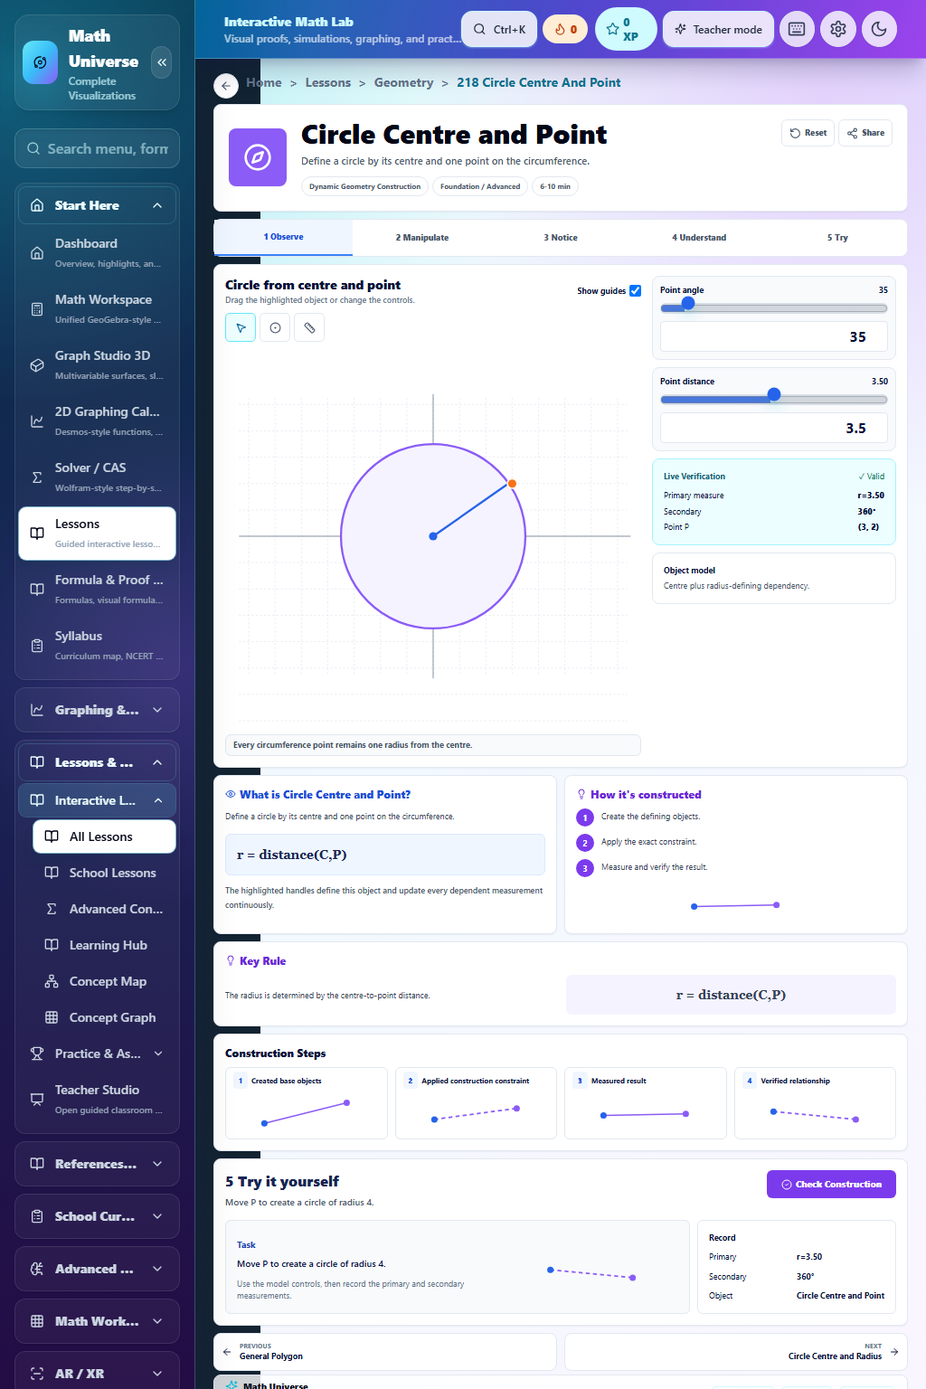
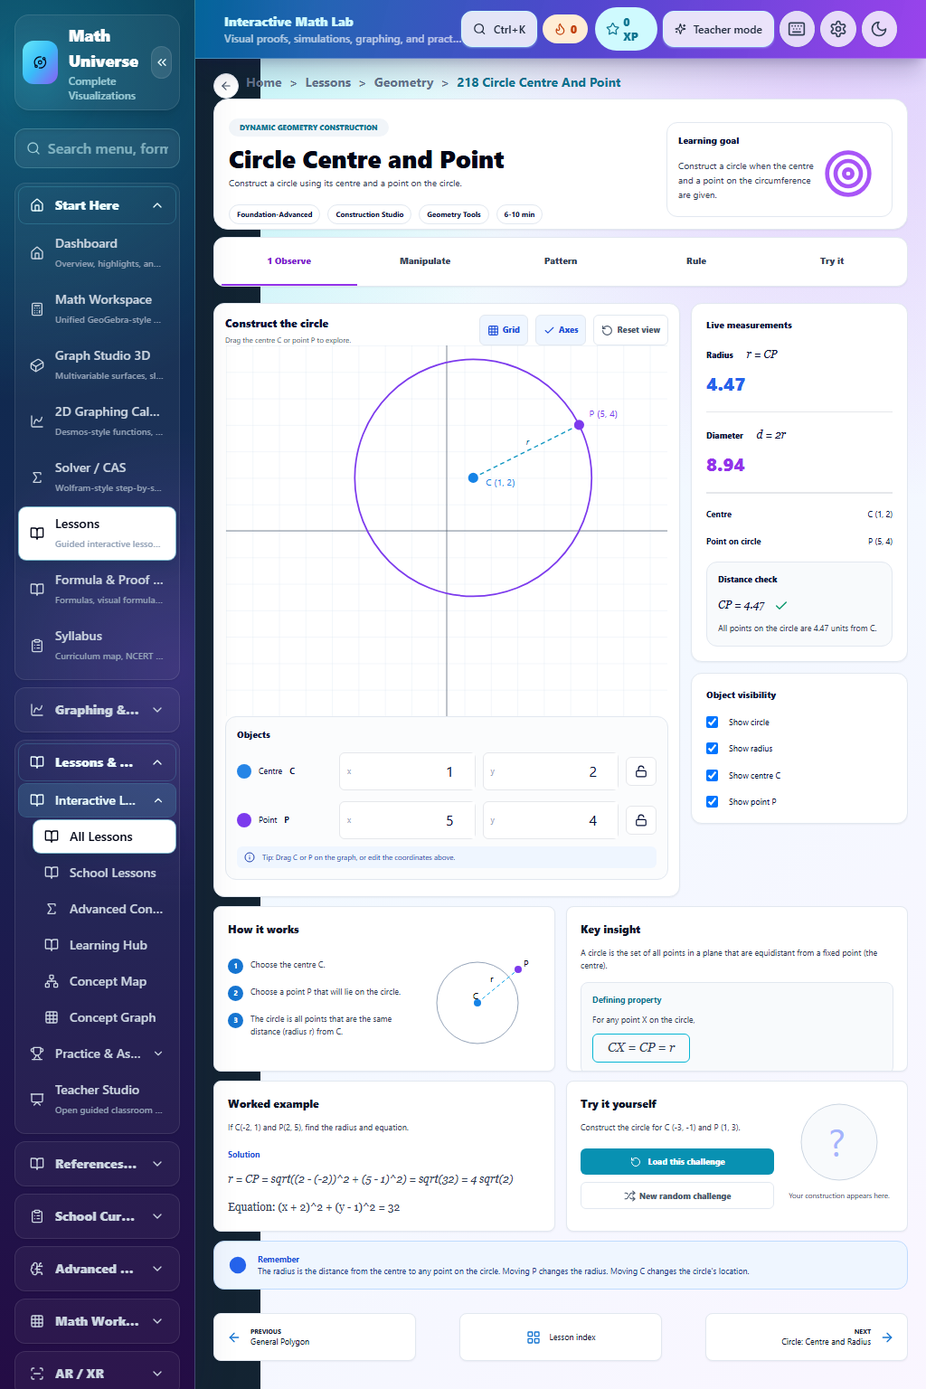
Rebuild circle centre point lesson to match target UI

diff --git a/src/modules/lessons/adapters/CircleCentrePointTargetLesson218.tsx b/src/modules/lessons/adapters/CircleCentrePointTargetLesson218.tsx
@@ -1,0 +1,82 @@
+import {
+  ArrowLeft,
+  ArrowRight,
+  Check,
+  Grid3X3,
+  Info,
+  LayoutGrid,
+  Lock,
+  RotateCcw,
+  Shuffle,
+  Target,
+  Unlock,
+} from "lucide-react";
+import {
+  useEffect,
+  useMemo,
+  useState,
+  type PointerEvent as ReactPointerEvent,
+} from "react";
+import type { LessonAdapterProps } from "../types";
+
+type Point = { x: number; y: number };
+type Drag = "centre" | "point" | null;
+type Visibility = { circle: boolean; radius: boolean; centre: boolean; point: boolean; grid: boolean; axes: boolean };
+const initialCentre = { x: 1, y: 2 };
+const initialPoint = { x: 5, y: 4 };
+const initialVisibility: Visibility = { circle: true, radius: true, centre: true, point: true, grid: true, axes: true };
+
+export default function CircleCentrePointTargetLesson218({ resetToken, onInteraction }: LessonAdapterProps) {
+  const [centre, setCentre] = useState<Point>(initialCentre);
+  const [point, setPoint] = useState<Point>(initialPoint);
+  const [locked, setLocked] = useState({ centre: false, point: false });
+  const [visibility, setVisibility] = useState(initialVisibility);
+  const [drag, setDrag] = useState<Drag>(null);
+  const [challenge, setChallenge] = useState<{ centre: Point; point: Point; loaded: boolean }>({ centre: { x: -3, y: -1 }, point: { x: 1, y: 3 }, loaded: false });
+  const radius = useMemo(() => distance(centre, point), [centre, point]);
+  const reset = () => { setCentre(initialCentre); setPoint(initialPoint); setLocked({centre:false,point:false}); setVisibility(initialVisibility); setChallenge({centre:{x:-3,y:-1},point:{x:1,y:3},loaded:false}); onInteraction(); };
+  useEffect(() => { setCentre(initialCentre); setPoint(initialPoint); setLocked({centre:false,point:false}); setVisibility(initialVisibility); setChallenge({centre:{x:-3,y:-1},point:{x:1,y:3},loaded:false}); }, [resetToken]);
+  const toggle = (key:keyof Visibility) => { setVisibility(value=>({...value,[key]:!value[key]})); onInteraction(); };
+  const update = (kind:"centre"|"point", next:Point) => { if(locked[kind])return; (kind==="centre"?setCentre:setPoint)({x:clamp(next.x,-6,6),y:clamp(next.y,-5,6)}); onInteraction(); };
+
+  return <section
+    className="space-y-3"
+    style={{marginTop:-12}}
+    data-testid="dynamic-geometry-mockup-0275"
+    data-dedicated-lesson="218"
+    data-object-model="circle-centre-through-point"
+    data-direct-interaction="true"
+    aria-label="Circle Centre and Point dedicated interactive geometry model"
+  >
+    <span role="status" className="sr-only">Correct circle dependency.</span><span className="sr-only">Live Verification. Check Construction.</span>
+    <header className="h-[145px] rounded-2xl border border-slate-200 bg-white p-4 shadow-sm">
+      <div className="grid items-center gap-5 md:grid-cols-[1fr_250px]"><div><p className="inline-block rounded-full bg-slate-100 px-3 py-1 text-[8px] font-black uppercase text-cyan-700">Dynamic Geometry Construction</p><h1 className="mt-2 text-[27px] font-black leading-8 text-slate-950">Circle Centre and Point</h1><p className="mt-1 text-[10px] text-slate-700">Construct a circle using its centre and a point on the circle.</p><div className="mt-4 flex flex-wrap gap-2 text-[8px] font-bold"><span className="target-geometry-chip">Foundation-Advanced</span><span className="target-geometry-chip">Construction Studio</span><span className="target-geometry-chip">Geometry Tools</span><span className="target-geometry-chip">6-10 min</span></div></div><div className="relative min-h-[105px] rounded-xl border border-slate-200 p-3 pr-20"><h2 className="text-[10px] font-black">Learning goal</h2><p className="mt-3 text-[10px] leading-4 text-slate-700">Construct a circle when the centre and a point on the circumference are given.</p><Target className="absolute right-5 top-7 h-14 w-14 text-purple-500"/></div></div>
+    </header>
+    <nav className="grid grid-cols-5 overflow-hidden rounded-xl border border-slate-200 bg-white px-2 shadow-sm" style={{marginTop:8}}>{['1 Observe','Manipulate','Pattern','Rule','Try it'].map((label,index)=><button type="button" key={label} className={`h-[53px] border-b-2 text-[10px] font-black ${index===0?'border-purple-600 text-purple-700':'border-transparent text-slate-700'}`} onClick={()=>{document.getElementById(index===4?'circle-challenge':`circle-section-${index}`)?.scrollIntoView({behavior:'smooth',block:'center'});onInteraction()}}>{label}</button>)}</nav>
+
+    <section id="circle-section-0" className="grid min-h-[657px] gap-3 md:grid-cols-[minmax(0,2.15fr)_minmax(205px,1fr)]" style={{marginTop:18}}>
+      <div className="rounded-xl border border-slate-200 bg-white p-3 shadow-sm"><div className="flex justify-between gap-3"><div><h2 className="text-[12px] font-black">Construct the circle</h2><p className="mt-1 text-[8px] text-slate-600">Drag the centre C or point P to explore.</p></div><div className="flex gap-2"><ToggleButton checked={visibility.grid} label="Grid" icon={<Grid3X3/>} onClick={()=>toggle('grid')}/><ToggleButton checked={visibility.axes} label="Axes" icon={<Check/>} onClick={()=>toggle('axes')}/><button type="button" className="target-geometry-action" onClick={reset}><RotateCcw/>Reset view</button></div></div>
+        <CircleCanvas centre={centre} point={point} radius={radius} visibility={visibility} locked={locked} drag={drag} onDrag={setDrag} onUpdate={update}/>
+        <div className="rounded-xl border border-slate-200 bg-slate-50/60 p-3"><h3 className="text-[10px] font-black">Objects</h3><ObjectRow kind="centre" name="Centre" symbol="C" color="#2685e6" point={centre} locked={locked.centre} onLock={()=>{setLocked(value=>({...value,centre:!value.centre}));onInteraction()}} onUpdate={value=>update('centre',value)}/><ObjectRow kind="point" name="Point" symbol="P" color="#7c3aed" point={point} locked={locked.point} onLock={()=>{setLocked(value=>({...value,point:!value.point}));onInteraction()}} onUpdate={value=>update('point',value)}/><p className="mt-2 flex items-center gap-2 rounded-md bg-blue-50 px-2 py-1.5 text-[8px] text-blue-800"><Info className="h-3 w-3"/>Tip: Drag C or P on the graph, or edit the coordinates above.</p></div>
+      </div>
+      <aside className="space-y-3"><section className="rounded-xl border border-slate-200 bg-white p-4 shadow-sm"><h2 className="text-[10px] font-black">Live measurements</h2><Measure label="Radius" formula="r = CP" value={radius.toFixed(2)} color="text-blue-600"/><Measure label="Diameter" formula="d = 2r" value={(2*radius).toFixed(2)} color="text-purple-600"/><hr/><Property label="Centre" value={`C (${format(centre.x)}, ${format(centre.y)})`}/><Property label="Point on circle" value={`P (${format(point.x)}, ${format(point.y)})`}/><div className="mt-4 rounded-xl border border-slate-200 bg-slate-50 p-3 text-[9px]"><h3 className="font-black">Distance check</h3><p className="mt-3 font-serif text-[12px] italic">CP = {radius.toFixed(2)} <Check className="ml-2 inline h-4 w-4 text-emerald-600"/></p><p className="mt-2 leading-4 text-slate-700">All points on the circle are {radius.toFixed(2)} units from C.</p></div></section><section className="rounded-xl border border-slate-200 bg-white p-4 shadow-sm"><h2 className="text-[10px] font-black">Object visibility</h2><Visibility label="Show circle" checked={visibility.circle} mark={<span className="h-0 w-9 border-t-2 border-purple-600"/>} onChange={()=>toggle('circle')}/><Visibility label="Show radius" checked={visibility.radius} mark={<span className="h-0 w-9 border-t-2 border-dashed border-cyan-600"/>} onChange={()=>toggle('radius')}/><Visibility label="Show centre C" checked={visibility.centre} mark={<span className="h-2 w-2 rounded-full bg-blue-600"/>} onChange={()=>toggle('centre')}/><Visibility label="Show point P" checked={visibility.point} mark={<span className="h-2 w-2 rounded-full bg-purple-600"/>} onChange={()=>toggle('point')}/></section></aside>
+    </section>
+
+    <section className="grid gap-3 md:grid-cols-2" style={{marginTop:10}}><article id="circle-section-1" className="target-circle-card"><h2>How it works</h2><div className="grid grid-cols-[1fr_130px] gap-2"><div>{['Choose the centre C.','Choose a point P that will lie on the circle.','The circle is all points that are the same distance (radius r) from C.'].map((text,index)=><p key={text} className="target-circle-step"><b>{index+1}</b>{text}</p>)}</div><MiniCircle/></div></article><article id="circle-section-3" className="target-circle-card"><h2>Key insight</h2><p>A circle is the set of all points in a plane that are equidistant from a fixed point (the centre).</p><div className="mt-3 rounded-lg border border-slate-200 bg-slate-50 p-3"><b className="text-cyan-700">Defining property</b><p className="mt-2">For any point X on the circle,</p><p className="mt-2 w-fit rounded-md border border-cyan-500 px-4 py-1 font-serif text-[14px] italic">CX = CP = r</p></div></article></section>
+    <section className="grid gap-3 md:grid-cols-2" style={{marginTop:10}}><article id="circle-section-2" className="target-circle-card" style={{height:167}}><h2>Worked example</h2><p>If C(-2, 1) and P(2, 5), find the radius and equation.</p><b className="mt-4 block text-blue-700">Solution</b><p className="mt-3 font-serif text-[12px] italic">r = CP = sqrt((2 - (-2))^2 + (5 - 1)^2) = sqrt(32) = 4 sqrt(2)</p><p className="mt-3 font-serif text-[12px]">Equation: (x + 2)^2 + (y - 1)^2 = 32</p></article><article id="circle-challenge" className="target-circle-card" style={{height:167}}><div className="grid grid-cols-[1fr_120px] gap-3"><div><h2>Try it yourself</h2><p>Construct the circle for C ({format(challenge.centre.x)}, {format(challenge.centre.y)}) and P ({format(challenge.point.x)}, {format(challenge.point.y)}).</p><button type="button" className="mt-4 flex w-full items-center justify-center gap-2 rounded-md bg-cyan-600 py-2 text-[9px] font-black text-white" onClick={()=>{setCentre(challenge.centre);setPoint(challenge.point);setChallenge(value=>({...value,loaded:true}));onInteraction()}}><RotateCcw className="h-3 w-3"/>Load this challenge</button><button type="button" className="target-geometry-action mt-2 w-full justify-center" onClick={()=>{const seed=Math.round((challenge.centre.x+challenge.point.y+9)%5);setChallenge({centre:{x:-4+seed,y:-2+(seed%3)},point:{x:2+(seed%3),y:2+seed},loaded:false});onInteraction()}}><Shuffle/>New random challenge</button></div><ChallengePreview centre={challenge.centre} point={challenge.point} loaded={challenge.loaded}/></div></article></section>
+    <div className="flex h-[54px] items-center gap-3 rounded-xl border border-blue-200 bg-blue-50 px-4 py-3 text-[9px] text-blue-900" style={{marginTop:10}}><Info className="h-5 w-5 shrink-0 fill-blue-600 text-blue-600"/><p><b className="block text-blue-700">Remember</b>The radius is the distance from the centre to any point on the circle. Moving P changes the radius. Moving C changes the circle's location.</p></div>
+    <nav className="grid grid-cols-3 gap-12" style={{marginTop:26}} aria-label="Adjacent lessons"><a className="target-circle-nav" href="/lessons/geometry/217-general-polygon"><ArrowLeft/><span><b>Previous</b>General Polygon</span></a><a className="target-circle-nav justify-center" href="/lessons"><LayoutGrid/><span>Lesson index</span></a><a className="target-circle-nav justify-end text-right" href="/lessons/geometry/219-circle-centre-and-radius"><span><b>Next</b>Circle: Centre and Radius</span><ArrowRight/></a></nav>
+  </section>;
+}
+
+function CircleCanvas({centre,point,radius,visibility,locked,drag,onDrag,onUpdate}:{centre:Point;point:Point;radius:number;visibility:Visibility;locked:{centre:boolean;point:boolean};drag:Drag;onDrag:(drag:Drag)=>void;onUpdate:(kind:"centre"|"point",point:Point)=>void}){const domain=(event:ReactPointerEvent<SVGSVGElement>)=>{const box=event.currentTarget.getBoundingClientRect();return{x:-7+((event.clientX-box.left)/box.width)*14,y:7-((event.clientY-box.top)/box.height)*14}};const screen=(p:Point)=>({x:350+p.x*42,y:294-p.y*42});const c=screen(centre),p=screen(point);return <svg role="img" aria-label="Interactive circle with draggable centre C and circumference point P" className="h-[410px] w-full touch-none" viewBox="0 0 700 588" onPointerMove={event=>{if(drag)onUpdate(drag,domain(event))}} onPointerUp={()=>onDrag(null)} onPointerCancel={()=>onDrag(null)}><defs><pattern id="circle-point-grid" width="42" height="42" patternUnits="userSpaceOnUse"><path d="M42 0H0V42" fill="none" stroke="#dbe7f2"/></pattern></defs>{visibility.grid&&<rect width="700" height="588" fill="url(#circle-point-grid)"/>}{visibility.axes&&<><line x1="0" y1="294" x2="700" y2="294" stroke="#475569"/><line x1="350" y1="0" x2="350" y2="588" stroke="#475569"/></>}{visibility.circle&&<circle data-testid="centre-point-construction-circle" data-radius={radius.toFixed(4)} cx={c.x} cy={c.y} r={radius*42} fill="none" stroke="#7c3aed" strokeWidth="2.5"/>}{visibility.radius&&<><line x1={c.x} y1={c.y} x2={p.x} y2={p.y} stroke="#1398c3" strokeWidth="2" strokeDasharray="7 5"/><text x={(c.x+p.x)/2} y={(c.y+p.y)/2-10} fill="#0369a1" fontSize="13" fontStyle="italic">r</text></>}{visibility.centre&&<g><circle data-testid="circle-centre-handle" cx={c.x} cy={c.y} r="8" fill="#1683e6" className={locked.centre?'cursor-not-allowed':'cursor-move'} onPointerDown={event=>{if(!locked.centre){event.currentTarget.ownerSVGElement?.setPointerCapture(event.pointerId);onDrag('centre')}}}/><text x={c.x+20} y={c.y+12} fill="#1683e6" fontSize="15">C ({format(centre.x)}, {format(centre.y)})</text></g>}{visibility.point&&<g><circle data-testid="circle-point-handle" cx={p.x} cy={p.y} r="8" fill="#7c3aed" className={locked.point?'cursor-not-allowed':'cursor-move'} onPointerDown={event=>{if(!locked.point){event.currentTarget.ownerSVGElement?.setPointerCapture(event.pointerId);onDrag('point')}}}/><text x={p.x+16} y={p.y-12} fill="#7c3aed" fontSize="15">P ({format(point.x)}, {format(point.y)})</text></g>}</svg>}
+function ObjectRow({kind,name,symbol,color,point,locked,onLock,onUpdate}:{kind:string;name:string;symbol:string;color:string;point:Point;locked:boolean;onLock:()=>void;onUpdate:(point:Point)=>void}){return <div className="mt-3 grid grid-cols-[105px_minmax(0,1fr)_minmax(0,1fr)_34px] items-center gap-2 text-[9px]"><span className="flex items-center gap-2"><i className="h-4 w-4 rounded-full" style={{background:color}}/>{name} <b>{symbol}</b></span><label className="flex min-w-0 items-center rounded-md border bg-white"><span className="px-2 text-slate-400">x</span><input aria-label={`${name} x coordinate`} type="number" step="0.1" disabled={locked} className="w-0 min-w-0 flex-1 px-2 py-2 text-right" value={point.x} onChange={event=>onUpdate({...point,x:Number(event.target.value)})}/></label><label className="flex min-w-0 items-center rounded-md border bg-white"><span className="px-2 text-slate-400">y</span><input aria-label={`${name} y coordinate`} type="number" step="0.1" disabled={locked} className="w-0 min-w-0 flex-1 px-2 py-2 text-right" value={point.y} onChange={event=>onUpdate({...point,y:Number(event.target.value)})}/></label><button type="button" className="grid h-8 place-items-center rounded-md border bg-white" aria-label={`${locked?'Unlock':'Lock'} ${name.toLowerCase()}`} onClick={onLock}>{locked?<Lock className="h-3.5 w-3.5"/>:<Unlock className="h-3.5 w-3.5"/>}</button></div>}
+function ToggleButton({checked,label,icon,onClick}:{checked:boolean;label:string;icon:React.ReactNode;onClick:()=>void}){return <button type="button" aria-pressed={checked} className={`target-geometry-action ${checked?'!bg-blue-50 !text-blue-700':''}`} onClick={onClick}>{icon}{label}</button>}
+function Measure({label,formula,value,color}:{label:string;formula:string;value:string;color:string}){return <div className="border-b py-4"><p className="text-[9px] font-black">{label} <span className="ml-3 font-serif text-[12px] italic font-normal">{formula}</span></p><p className={`mt-2 text-[20px] font-black ${color}`}>{value}</p></div>}
+function Property({label,value}:{label:string;value:string}){return <p className="mt-4 flex justify-between text-[9px]"><b>{label}</b><span>{value}</span></p>}
+function Visibility({label,checked,mark,onChange}:{label:string;checked:boolean;mark:React.ReactNode;onChange:()=>void}){return <label className="mt-4 flex items-center gap-3 text-[9px]"><input type="checkbox" checked={checked} onChange={onChange}/><span>{label}</span><span className="ml-auto">{mark}</span></label>}
+function MiniCircle(){return <svg className="h-[120px] w-full" viewBox="0 0 130 120"><circle cx="60" cy="62" r="45" fill="none" stroke="#94a3b8"/><line x1="60" y1="62" x2="105" y2="25" stroke="#0ea5e9" strokeDasharray="4 3"/><circle cx="60" cy="62" r="4" fill="#1683e6"/><circle cx="105" cy="25" r="4" fill="#7c3aed"/><text x="55" y="58" fontSize="10">C</text><text x="111" y="22" fontSize="10">P</text><text x="74" y="39" fontSize="10">r</text></svg>}
+function ChallengePreview({centre,point,loaded}:{centre:Point;point:Point;loaded:boolean}){const r=distance(centre,point);return <div className="text-center text-[8px]"><svg className="h-[105px] w-full" viewBox="0 0 120 105">{loaded?<><circle cx="60" cy="52" r={Math.min(43,r*8)} fill="#f5f3ff" stroke="#7c3aed"/><line x1="60" y1="52" x2={60+Math.min(43,r*8)} y2="52" stroke="#0ea5e9" strokeDasharray="4 3"/><circle cx="60" cy="52" r="4" fill="#1683e6"/></>:<><circle cx="60" cy="52" r="42" fill="#f8fafc" stroke="#cbd5e1"/><text x="48" y="68" fontSize="42" fill="#a5b4fc">?</text></>}</svg><p>{loaded?'Challenge circle loaded.':'Your construction appears here.'}</p></div>}
+function clamp(value:number,min:number,max:number){return Math.min(max,Math.max(min,value))}
+function distance(a:Point,b:Point){return Math.hypot(b.x-a.x,b.y-a.y)}
+function format(value:number){return Number(value.toFixed(1)).toString()}

diff --git a/src/index.css b/src/index.css
@@ -229,6 +229,71 @@
   line-height: 1.7;
 }
 
+.target-circle-card {
+  height: 183px;
+  overflow: hidden;
+  border: 1px solid #e2e8f0;
+  border-radius: 8px;
+  background: #fff;
+  padding: 15px;
+  color: #334155;
+  font-size: 9px;
+  line-height: 1.55;
+  box-shadow: 0 1px 2px rgb(15 23 42 / 0.05);
+}
+
+.target-circle-card h2 {
+  margin-bottom: 10px;
+  color: #0f172a;
+  font-size: 12px;
+  font-weight: 900;
+}
+
+.target-circle-step {
+  display: flex;
+  align-items: flex-start;
+  gap: 8px;
+  margin-top: 13px;
+}
+
+.target-circle-step b {
+  display: grid;
+  width: 17px;
+  height: 17px;
+  flex: none;
+  place-items: center;
+  border-radius: 999px;
+  background: #1675d1;
+  color: white;
+  font-size: 8px;
+}
+
+.target-circle-nav {
+  display: flex;
+  height: 53px;
+  align-items: center;
+  gap: 10px;
+  border: 1px solid #e2e8f0;
+  border-radius: 8px;
+  background: white;
+  padding: 8px 14px;
+  color: #0f172a;
+  font-size: 9px;
+  box-shadow: 0 1px 2px rgb(15 23 42 / 0.05);
+}
+
+.target-circle-nav svg {
+  width: 16px;
+  height: 16px;
+  color: #1675d1;
+}
+
+.target-circle-nav b {
+  display: block;
+  font-size: 7px;
+  text-transform: uppercase;
+}
+
 :root {
   color-scheme: light;
   font-synthesis: none;

diff --git a/src/modules/lessons/adapters/Geometry2DLessonAdapter.test.tsx b/src/modules/lessons/adapters/Geometry2DLessonAdapter.test.tsx
@@ -553,6 +553,23 @@ describe("Geometry2DLessonAdapter", () => {
     expect(html).not.toContain('aria-label="Irregularity"');
   });
 
+  it("renders Circle Centre and Point with a direct radius dependency", () => {
+    const lesson = lessonCatalog.find((item) => item.id === 218)!;
+    const html = renderToStaticMarkup(
+      <Geometry2DLessonAdapter lesson={lesson} resetToken={0} onInteraction={vi.fn()} />,
+    );
+
+    expect(html).toContain("Interactive circle with draggable centre C and circumference point P");
+    expect(html).toContain('data-testid="circle-centre-handle"');
+    expect(html).toContain('data-testid="circle-point-handle"');
+    expect(html).toContain('aria-label="Centre x coordinate"');
+    expect(html).toContain('aria-label="Point y coordinate"');
+    expect(html).toContain("Live measurements");
+    expect(html).toContain("Load this challenge");
+    expect(html).not.toContain('aria-label="Point angle"');
+    expect(html).not.toContain('aria-label="Point distance"');
+  });
+
   it("renders geometry lessons 236 through 245 with transformation guidance", () => {
     const expectedSnippets: Record<number, string> = {
       236: "Translation by vector",

diff --git a/src/modules/lessons/adapters/GeometryTargetLessons206to235.tsx b/src/modules/lessons/adapters/GeometryTargetLessons206to235.tsx
@@ -31,6 +31,7 @@ import TriangleConstructorTargetLesson from "./TriangleConstructorTargetLesson21
 import RegularPolygonTargetLesson from "./RegularPolygonTargetLesson215";
 import RigidPolygonTargetLesson from "./RigidPolygonTargetLesson216";
 import GeneralPolygonTargetLesson from "./GeneralPolygonTargetLesson217";
+import CircleCentrePointTargetLesson from "./CircleCentrePointTargetLesson218";
 import CompassTargetLesson from "./CompassTargetLesson221";
 import RayTargetLesson from "./RayTargetLesson206";
 
@@ -541,8 +542,7 @@ function named(id: number) {
     <DedicatedGeometrySurface {...props} spec={specs[id]} />
   );
 }
-export const CircleCentrePointTargetLesson = named(218),
-  CircleCentreRadiusTargetLesson = named(219),
+export const CircleCentreRadiusTargetLesson = named(219),
   CircleThreePointsTargetLesson = named(220),
   SemicircleTargetLesson = named(222),
   CircularArcTargetLesson = named(223),

diff --git a/src/components/layout/AppLayout.tsx b/src/components/layout/AppLayout.tsx
@@ -78,7 +78,8 @@ function AppFooter() {
     ultraCompact;
   if (
     location.pathname === "/lessons/geometry/200-intersection-point" ||
-    location.pathname === "/lessons/geometry/203-line-through-two-points"
+    location.pathname === "/lessons/geometry/203-line-through-two-points" ||
+    location.pathname === "/lessons/geometry/218-circle-centre-and-point"
   )
     return null;
   if (usesTargetCompactFooter) {

diff --git a/test-evidence/lesson-ui-upgrade/0263-0292-dynamic-geometry-progress-note.md b/test-evidence/lesson-ui-upgrade/0263-0292-dynamic-geometry-progress-note.md
@@ -27,7 +27,7 @@ Updated 2026-08-24. This batch replaces the generic construction fallback for le
 | 0272 | 215 Regular Polygon | `regularPolygon` | Implemented and browser-validated |
 | 0273 | 216 Rigid Polygon | `rigidTriangleMotion` | Reworked individually and browser-validated |
 | 0274 | 217 General Polygon | `editableGeneralPolygon` | Reworked individually and browser-validated |
-| 0275 | 218 Circle Centre and Point | `circlePoint` | Implemented and browser-validated |
+| 0275 | 218 Circle Centre and Point | `circleCentreThroughPoint` | Reworked individually and browser-validated |
 | 0276 | 219 Circle Centre and Radius | `circleRadius` | Implemented and browser-validated |
 | 0277 | 220 Circle through Three Points | `circleThree` | Implemented and browser-validated |
 | 0278 | 221 Compass | `compassDistanceTransfer` | Reworked individually and browser-validated |
@@ -102,6 +102,10 @@ Reworked individually against the target mockup. Removed the generic quadrilater
 ### Lesson 217 / Mockup 0274 - General Polygon
 
 Reworked individually against the target mockup. Removed the generic regular pentagon, Vertices and Irregularity sliders, generic object-model panel, repeated construction cards, and template verification record. The dedicated surface owns an ordered collection of three to ten unrestricted vertices. Point and Polygon add vertices, every vertex is directly draggable, double-click removes a vertex, Move translates the complete polygon, Measure selects a real edge, and Clear All, reset, snap, and grid controls update the editor. Side lengths, perimeter, shoelace area, oriented interior angles, angle sum, expected angle sum, convexity, and pairwise non-adjacent edge intersection are recalculated from the same point collection. The Properties copy controls, n-gon pattern and formula panels, seven-gon example, learning flow, adjacent navigation, and independently graded hexagon sums follow mockup 0274. The screenshot uses live coordinate calculations rather than copying internally inconsistent property values from the mockup. Final 1022x1538 browser validation reshapes a vertex and confirms area changes, adds and removes a sixth vertex, translates the complete polygon and confirms area is preserved, selects an edge, exercises both display toggles, clears and restores the model, and verifies 720-degree/360-degree hexagon sums with no overflow or console errors.
+
+### Lesson 218 / Mockup 0275 - Circle Centre and Point
+
+Reworked individually against the target mockup. Removed the generic circle, Point angle and Point distance sliders, generic object-model panel, repeated construction cards, and template verification record. The dedicated construction owns independently draggable and editable centre C and circumference point P; the radius is always the Euclidean distance CP, the diameter is 2r, and the rendered circle, dashed radius, coordinate labels, measurement panel, and distance check derive from those two points. Coordinate locks prevent both direct dragging and field edits. Grid, axes, circle, radius, centre, and point visibility controls are functional. Reset restores the initial C(1, 2), P(5, 4) model. The learning goal, five-stage navigation, object editor, construction explanation, defining property, worked equation, challenge generator/loader, reminder, lesson index, and adjacent navigation reproduce mockup 0275's content hierarchy. Final 1024x1536 browser validation physically drags C and P and confirms each changes CP, edits all four coordinates, verifies the centre lock, exercises all six display controls, generates and loads a challenge, resets the model, and reports no overlap, overflow, or console errors. The dedicated surface ends at 1505px against the target's 1503px boundary.
 
 ### Lesson 221 / Mockup 0278 - Compass
 
